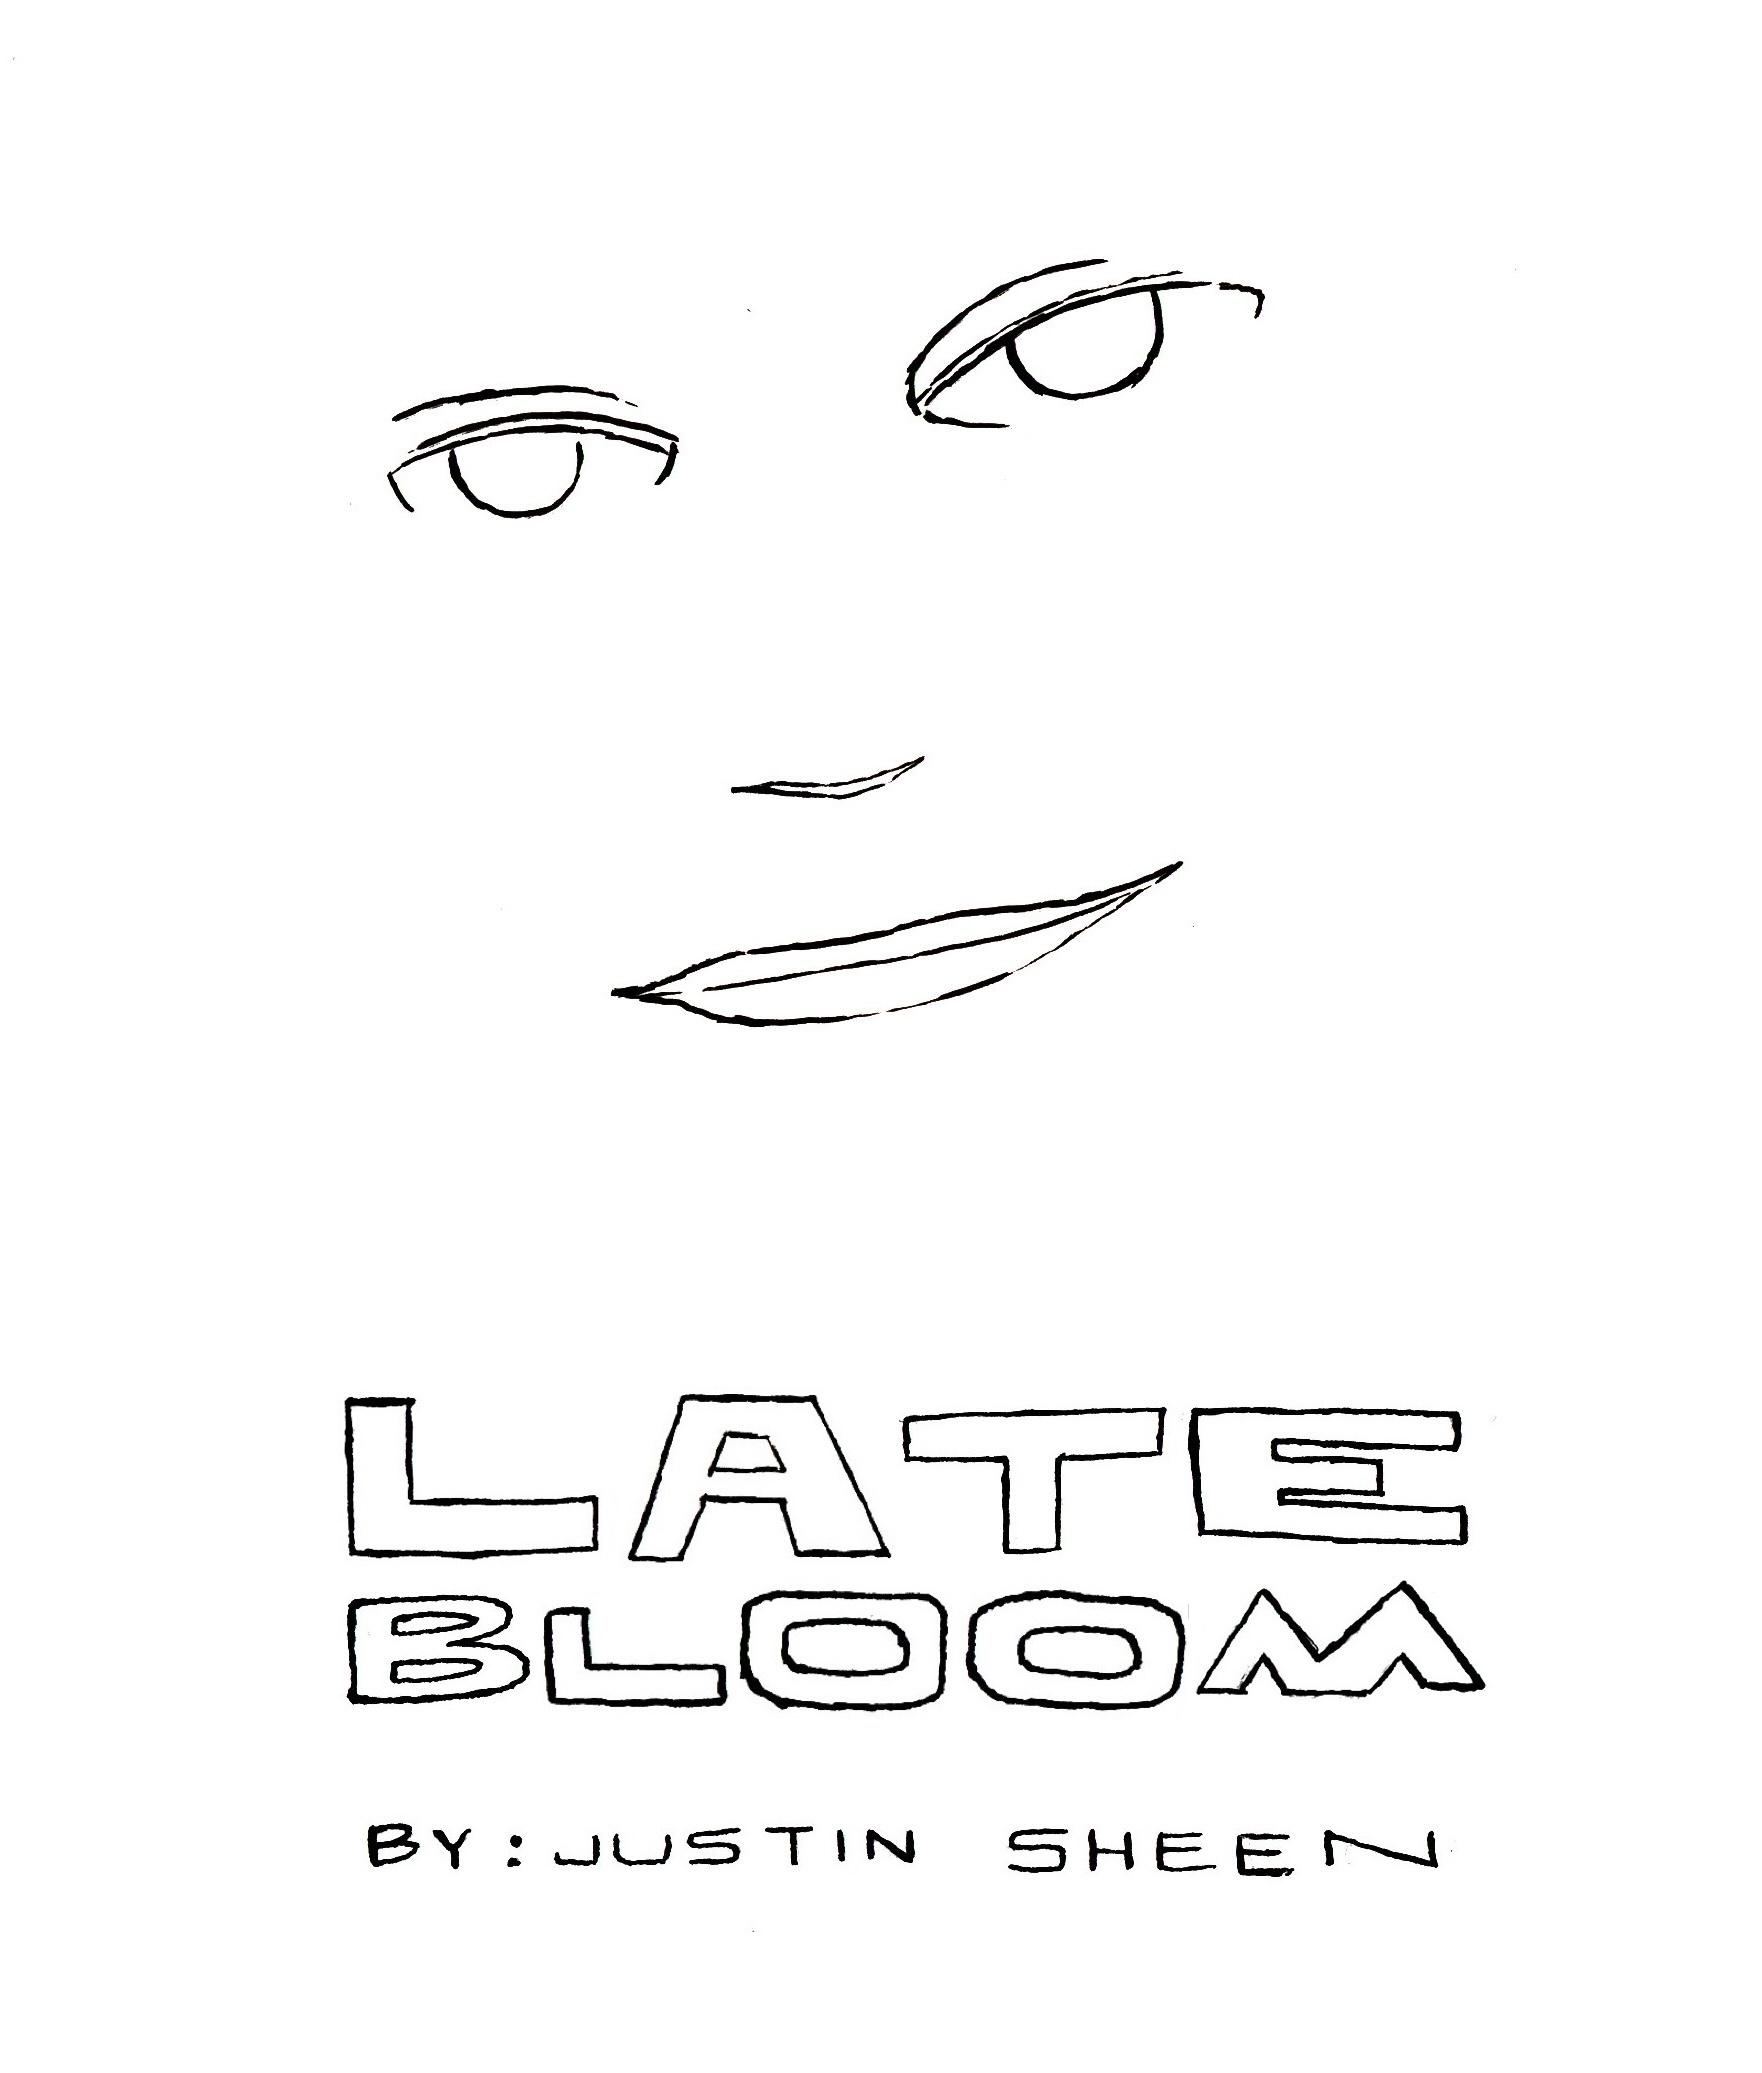
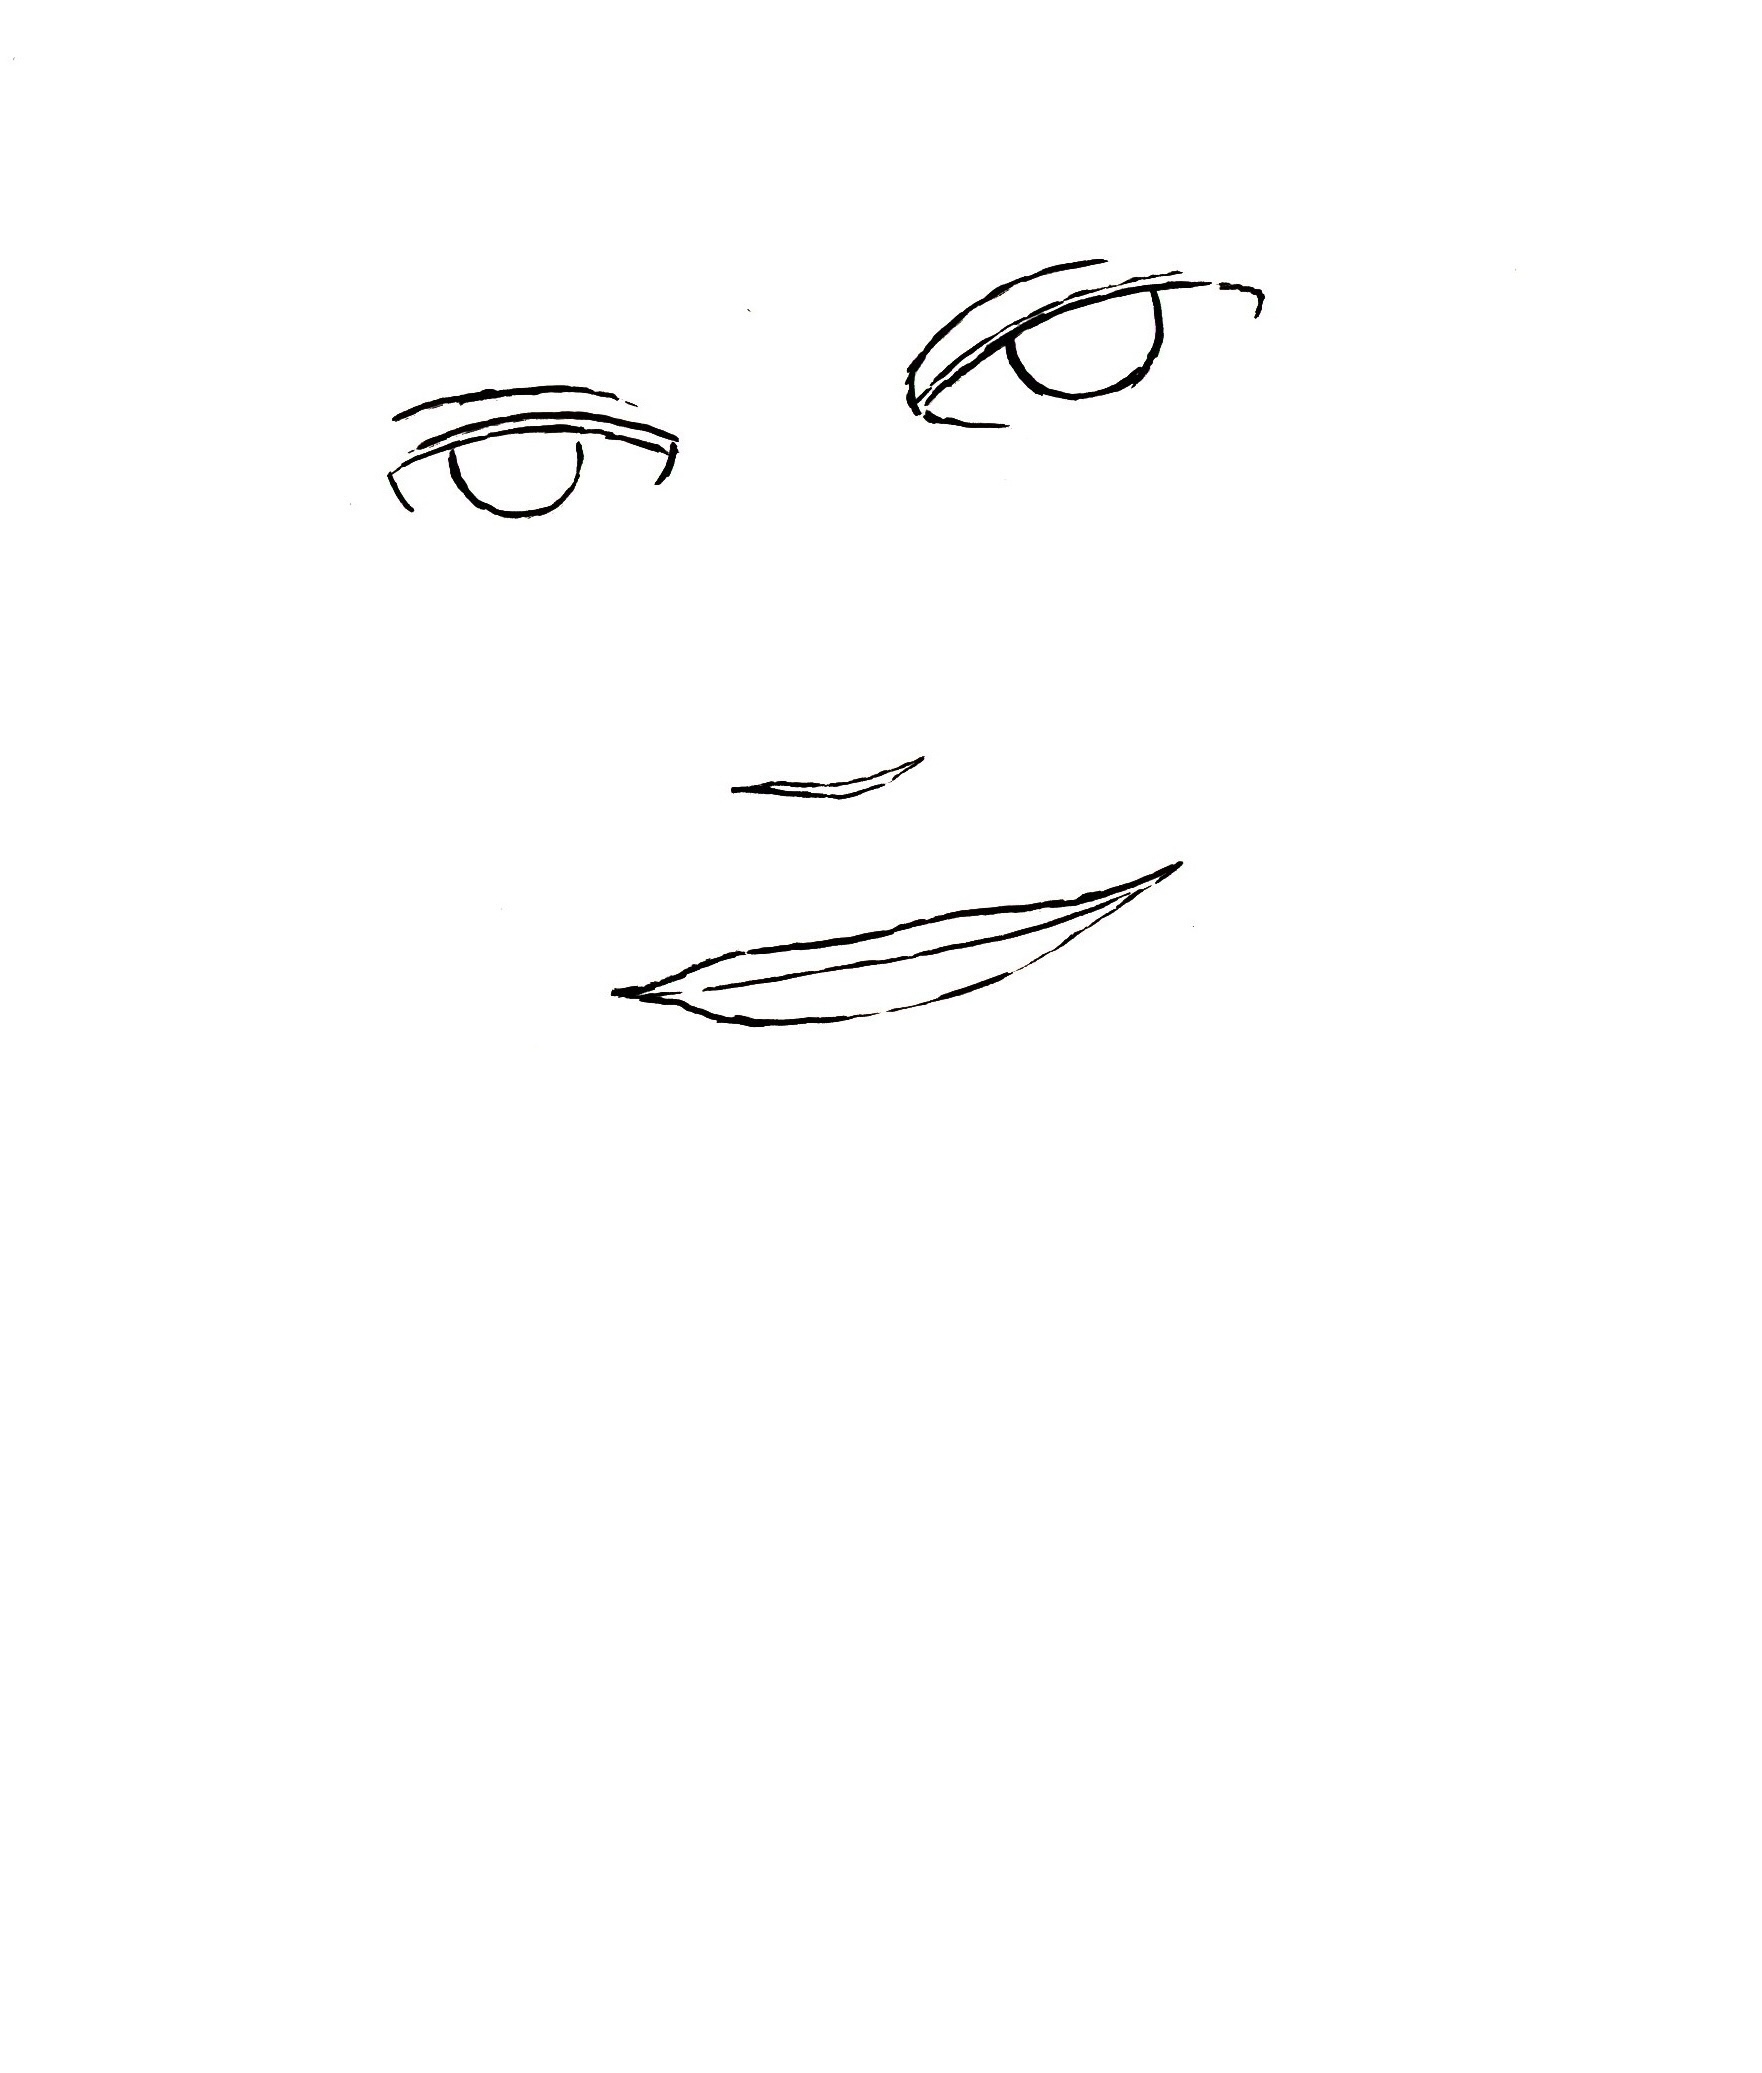
new

diff --git a/latebloom.html b/latebloom.html
@@ -56,9 +56,10 @@ img {height: 100px;}
 
 <!-- main -->
 <div id="wrapper" class="main">
-  [under construction]<br>
-<img src="images/latebloom_title.jpg" style="height:500px !important;" alt="">
-<br>
+  Late Bloom <br>
+  By: Justin Sheen<br>
+  [under construction]
+<br><br><br><br><br>
   <div class="column">
     <a href="page70.html"><img src="images/spaghetti.jpg" alt=""></a>
     <a href="page71.html"><img src="images/mean.jpg" alt=""></a>
